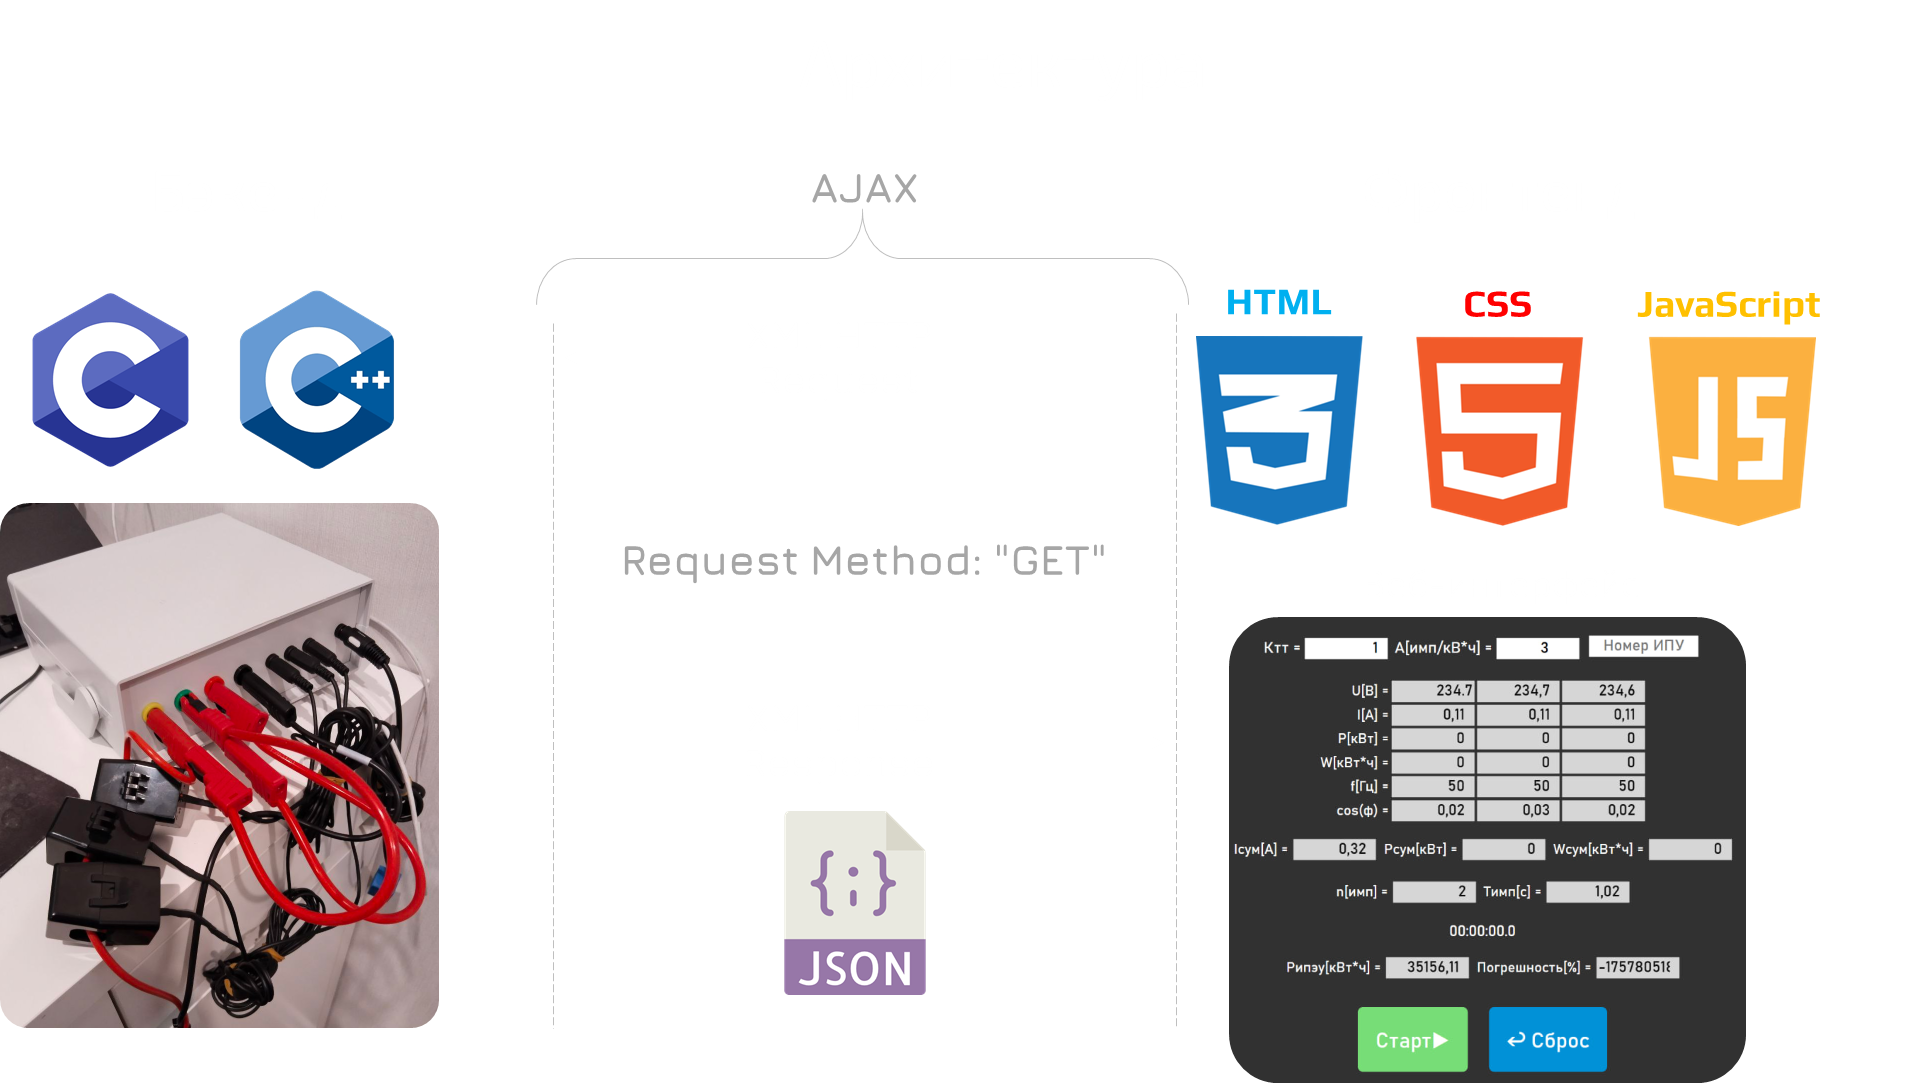
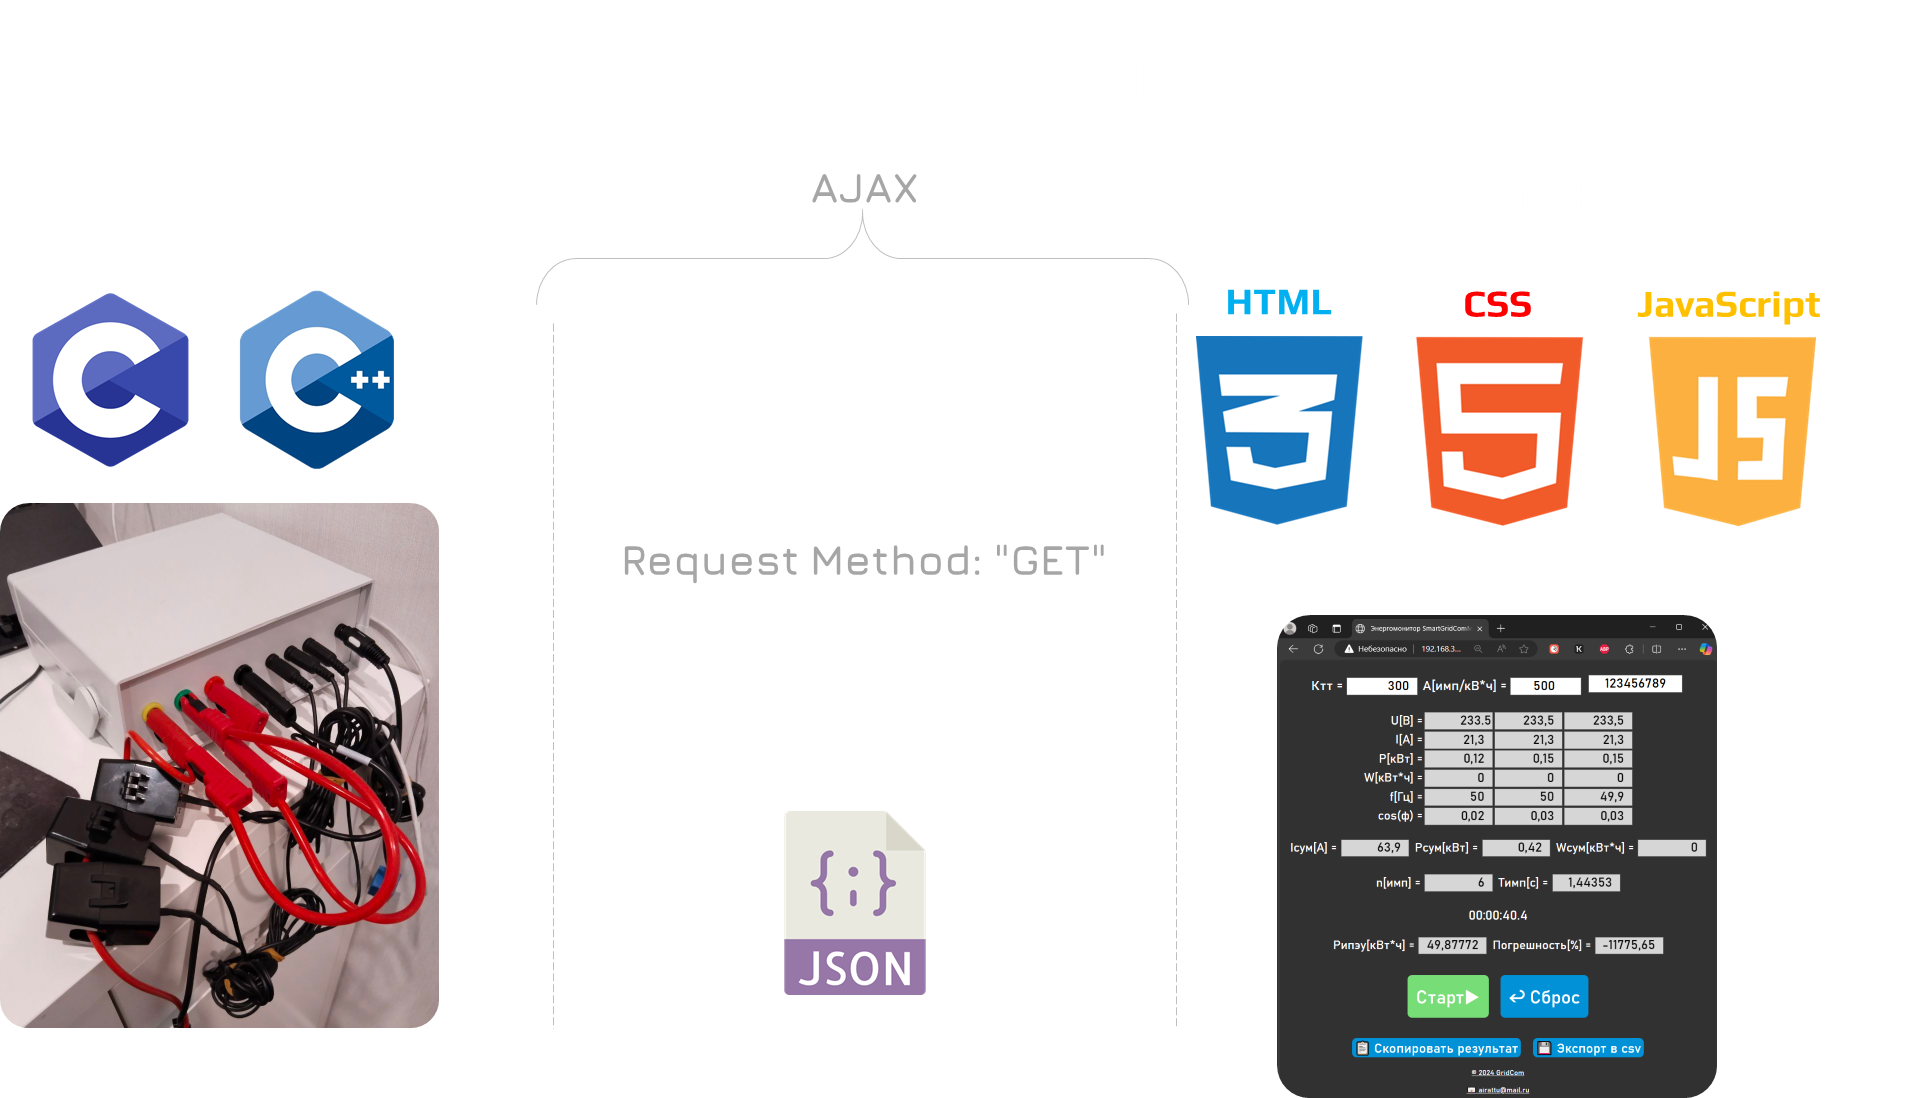
add export to csv

diff --git a/front/script.js b/front/script.js
@@ -1,4 +1,4 @@
-let сurrentTransformerTransformationRatioCheck = document.getElementById('CurrentTransformerTransformationRatioCheck');
+let currentTransformerTransformationRatioCheck = document.getElementById('CurrentTransformerTransformationRatioCheck');
 
 let constMeterImpsNumCheck = document.getElementById('ConstMeterImpsNumCheck');
 
@@ -62,13 +62,45 @@ function CheckConstMeterImpsNumInputs() {
 }
 
 function CheckCurrentTransformerTransformationRatioInputs() {
-    if (сurrentTransformerTransformationRatioCheck.value == ''
-        || сurrentTransformerTransformationRatioCheck.value <= 0) {
+    if (currentTransformerTransformationRatioCheck.value == ''
+        || currentTransformerTransformationRatioCheck.value <= 0) {
             alert('Ктт должен быть больше 0');
             return false;
         }
     return true;
 };
+
+let allValuesToCSV = [[
+    'time',
+    'timer',
+'currentTransformerTransformationRatio',
+'constMeterImpsNum',
+'meterSerialNumMeter',
+'pzemVoltageMeter1',
+'pzemVoltageMeter2',
+'pzemVoltageMeter3',
+'pzemCurrentMeter1',
+'pzemCurrentMeter2',
+'pzemCurrentMeter3',
+'pzemPowerMeter1',
+'pzemPowerMeter2',
+'pzemPowerMeter3',
+'pzemEnergyMeter1',
+'pzemEnergyMeter2',
+'pzemEnergyMeter3',
+'pzemFrequencyMeter1',
+'pzemFrequencyMeter2',
+'pzemFrequencyMeter3',
+'pzemPowerFactorMeter1',
+'pzemPowerFactorMeter2',
+'pzemPowerFactorMeter3',
+'pzemFullCurrent',
+'pzemFullPower',
+'pzemFullEnergyMeter',
+'kyImpsMeter',
+'impsPeriodMeter',
+'calcMeterPower',
+'calcMeterAccuracy']];
 
 function ViewAllESPdata(ESPdata) {
     pzemVoltageMeterCheck1.value = ESPdata.voltages[0];
@@ -96,6 +128,75 @@ function ViewAllESPdata(ESPdata) {
     impsPeriodMeterCheck.value = ESPdata.ResSMDValues.SMDimpPeriod;
     calcMeterPower.value = ESPdata.ResSMDValues.SMDpower;
     calcMeterAccuracy.value = ESPdata.ResSMDValues.SMDAccuraty;
+    pushAllESPdataToCSVarray();
+}
+
+function formatDate(date) {
+    return date.getFullYear() + '/' +
+      (date.getMonth() + 1) + '/' +
+      date.getDate() + ' ' +
+      date.getHours() + ':' +
+      date.getMinutes() + ':' +
+      date.getSeconds();
+   }
+
+const downloadCsvBtn = document.getElementById("downloadCsvButton");
+downloadCsvBtn.addEventListener("click", DownloadCsv);
+
+function DownloadCsv() {
+        const csvContent = allValuesToCSV.map(row => 
+            row.map(field => 
+                `"${field.toString().replace(/"/g, '""')}"`
+            ).join(";")
+        ).join("\n");
+    
+        const blob = new Blob([csvContent], { type: 'text/csv;charset=utf-8;' });
+        const url = URL.createObjectURL(blob);
+        const link = document.createElement('a');
+        link.href = url;
+        const date = new Date();
+        link.download = formatDate(date) + 'exportSmartGridComMeterData.csv';
+        link.style.display = 'none';
+    
+        document.body.appendChild(link);
+        link.click();
+        document.body.removeChild(link);
+};
+
+function pushAllESPdataToCSVarray() {
+    downloadCsvBtn.style["display"] = "";
+    var now = new Date();
+    allValuesToCSV.push([
+        formatDate(now),
+        timer.textContent,
+        currentTransformerTransformationRatioCheck.value,
+        constMeterImpsNumCheck.value,
+        meterSerialNumMeterCheck.value,
+        pzemVoltageMeterCheck1.value,
+        pzemVoltageMeterCheck2.value,
+        pzemVoltageMeterCheck3.value,
+        pzemCurrentMeterCheck1.value,
+        pzemCurrentMeterCheck2.value,
+        pzemCurrentMeterCheck3.value,
+        pzemPowerMeterCheck1.value,
+        pzemPowerMeterCheck2.value,
+        pzemPowerMeterCheck3.value,
+        pzemEnergyMeterCheck1.value,
+        pzemEnergyMeterCheck2.value,
+        pzemEnergyMeterCheck3.value,
+        pzemFrequencyMeterCheck1.value,
+        pzemFrequencyMeterCheck2.value,
+        pzemFrequencyMeterCheck3.value,
+        pzemPowerFactorMeterCheck1.value,
+        pzemPowerFactorMeterCheck2.value,
+        pzemPowerFactorMeterCheck3.value,
+        pzemFullCurrentCheck.value,
+        pzemFullPowerCheck.value,
+        pzemFullEnergyMeterCheck.value,
+        kyImpsMeterCheck.value,
+        impsPeriodMeterCheck.value,
+        calcMeterPower.value,
+        calcMeterAccuracy.value]);
 }
 
 constMeterImpsNumCheck.addEventListener("change", sendConstMeterImpsNumCheck);
@@ -117,13 +218,13 @@ function sendConstMeterImpsNumCheck() {
     }
 };
 
-сurrentTransformerTransformationRatioCheck.addEventListener("change", sendCurrentTransformerTransformationRatio);
+currentTransformerTransformationRatioCheck.addEventListener("change", sendCurrentTransformerTransformationRatio);
 
 function sendCurrentTransformerTransformationRatio() {
     if (CheckCurrentTransformerTransformationRatioInputs()) {
         var xhttp = new XMLHttpRequest();
         xhttp.open("GET",
-            "current_transformer_transformation_ratio?сurrentTransformerTransformationRatio="+сurrentTransformerTransformationRatioCheck.value,
+            "current_transformer_transformation_ratio?сurrentTransformerTransformationRatio="+currentTransformerTransformationRatioCheck.value,
             true);
         xhttp.responseType = "json";
         xhttp.send();
@@ -173,6 +274,7 @@ function startMeterCheck(e) {
             StartMeterCheckBtn.innerText = 'Стоп⛔';
             StartMeterCheckBtn.style["background-color"] = "red";
             writeBtn.style["display"] = "none";
+            
         }
     } else {
         e.preventDefault();

diff --git a/front/index.html b/front/index.html
@@ -91,6 +91,10 @@
         name = "copyResultButton"
         class = "button"
         style="display: none">📋 Скопировать результат</button>
+        <button id = "downloadCsvButton"
+        name = "downloadCsvButton"
+        class = "button"
+        style="display: none">💾 Экспорт в csv</button>
         <br>
         <div class="output" id="printBlock"></div>
         <div class="footer" id="CopyRights"><p><a href="https://gridcom-rt.ru/" class="footer">© 2024 GridCom</a></p>

diff --git a/srs/PZEM_nodemcu_three_phase/index.h b/srs/PZEM_nodemcu_three_phase/index.h
@@ -191,13 +191,14 @@ input[type="checkbox"] {
                 <p><button id="StartMeterCheck" type="submit" class="button" name="StartMeterCheck">Старт▶</button>
                     <button type="reset" class="button" id="resetMeterCheck">↩ Сброс</button></p>
         </form>        <button id = "copyResultButton"        name = "copyResultButton"        class = "button"
-        style="display: none">📋 Скопировать результат</button>
+        style="display: none">📋 Скопировать результат</button>        <button id = "downloadCsvButton"        name = "downloadCsvButton"        class = "button"
+        style="display: none">💾 Экспорт в csv</button>
         <br>
         <div class="output" id="printBlock"></div>
         <div class="footer" id="CopyRights"><p><a href="https://gridcom-rt.ru/" class="footer">© 2024 GridCom</a></p>
             <a href="mailto:airattu@mail.ru" class="footer">📧 airattu@mail.ru</a></div>
 <script>
-let сurrentTransformerTransformationRatioCheck = document.getElementById('CurrentTransformerTransformationRatioCheck');
+let currentTransformerTransformationRatioCheck = document.getElementById('CurrentTransformerTransformationRatioCheck');
 let constMeterImpsNumCheck = document.getElementById('ConstMeterImpsNumCheck');
 let meterSerialNumMeterCheck = document.getElementById('SMDSerialNumMeterCheck');
 let pzemVoltageMeterCheck1 = document.getElementById('PzemVoltageMeterCheck1');
@@ -241,13 +242,14 @@ function CheckConstMeterImpsNumInputs() {    if (constMeterImpsNumCheck.value ==
         }
     return true;
 }
-function CheckCurrentTransformerTransformationRatioInputs() {    if (сurrentTransformerTransformationRatioCheck.value == ''
-        || сurrentTransformerTransformationRatioCheck.value <= 0) {
+function CheckCurrentTransformerTransformationRatioInputs() {    if (currentTransformerTransformationRatioCheck.value == ''
+        || currentTransformerTransformationRatioCheck.value <= 0) {
             alert('Ктт должен быть больше 0');
             return false;
         }
     return true;
-};
+};let allValuesToCSV = [[    'time',    'timer','currentTransformerTransformationRatio','constMeterImpsNum','meterSerialNumMeter','pzemVoltageMeter1','pzemVoltageMeter2','pzemVoltageMeter3','pzemCurrentMeter1','pzemCurrentMeter2','pzemCurrentMeter3','pzemPowerMeter1','pzemPowerMeter2','pzemPowerMeter3','pzemEnergyMeter1','pzemEnergyMeter2','pzemEnergyMeter3','pzemFrequencyMeter1','pzemFrequencyMeter2','pzemFrequencyMeter3','pzemPowerFactorMeter1','pzemPowerFactorMeter2','pzemPowerFactorMeter3','pzemFullCurrent','pzemFullPower','pzemFullEnergyMeter','kyImpsMeter','impsPeriodMeter','calcMeterPower',
+'calcMeterAccuracy']];
 function ViewAllESPdata(ESPdata) {
     pzemVoltageMeterCheck1.value = ESPdata.voltages[0];
     pzemVoltageMeterCheck2.value = ESPdata.voltages[1];
@@ -274,6 +276,30 @@ function ViewAllESPdata(ESPdata) {
     impsPeriodMeterCheck.value = ESPdata.ResSMDValues.SMDimpPeriod;
     calcMeterPower.value = ESPdata.ResSMDValues.SMDpower;
     calcMeterAccuracy.value = ESPdata.ResSMDValues.SMDAccuraty;
+    pushAllESPdataToCSVarray();
+}
+function formatDate(date) {    return date.getFullYear() + '/' +      (date.getMonth() + 1) + '/' +      date.getDate() + ' ' +      date.getHours() + ':' +      date.getMinutes() + ':' +
+      date.getSeconds();
+   }
+const downloadCsvBtn = document.getElementById("downloadCsvButton");
+downloadCsvBtn.addEventListener("click", DownloadCsv);
+function DownloadCsv() {        const csvContent = allValuesToCSV.map(row =>             row.map(field =>                 `"${field.toString().replace(/"/g, '""')}"`            ).join(";")
+        ).join("\n");    
+        const blob = new Blob([csvContent], { type: 'text/csv;charset=utf-8;' });
+        const url = URL.createObjectURL(blob);
+        const link = document.createElement('a');
+        link.href = url;
+        const date = new Date();
+        link.download = formatDate(date) + 'exportSmartGridComMeterData.csv';
+        link.style.display = 'none';    
+        document.body.appendChild(link);
+        link.click();
+        document.body.removeChild(link);
+};
+function pushAllESPdataToCSVarray() {
+    downloadCsvBtn.style["display"] = "";
+    var now = new Date();    allValuesToCSV.push([        formatDate(now),        timer.textContent,        currentTransformerTransformationRatioCheck.value,        constMeterImpsNumCheck.value,        meterSerialNumMeterCheck.value,        pzemVoltageMeterCheck1.value,        pzemVoltageMeterCheck2.value,        pzemVoltageMeterCheck3.value,        pzemCurrentMeterCheck1.value,        pzemCurrentMeterCheck2.value,        pzemCurrentMeterCheck3.value,        pzemPowerMeterCheck1.value,        pzemPowerMeterCheck2.value,        pzemPowerMeterCheck3.value,        pzemEnergyMeterCheck1.value,        pzemEnergyMeterCheck2.value,        pzemEnergyMeterCheck3.value,        pzemFrequencyMeterCheck1.value,        pzemFrequencyMeterCheck2.value,        pzemFrequencyMeterCheck3.value,        pzemPowerFactorMeterCheck1.value,        pzemPowerFactorMeterCheck2.value,        pzemPowerFactorMeterCheck3.value,        pzemFullCurrentCheck.value,        pzemFullPowerCheck.value,        pzemFullEnergyMeterCheck.value,        kyImpsMeterCheck.value,        impsPeriodMeterCheck.value,        calcMeterPower.value,
+        calcMeterAccuracy.value]);
 }
 constMeterImpsNumCheck.addEventListener("change", sendConstMeterImpsNumCheck);
 function sendConstMeterImpsNumCheck() {
@@ -292,10 +318,10 @@ function sendConstMeterImpsNumCheck() {
         };
     }
 };
-сurrentTransformerTransformationRatioCheck.addEventListener("change", sendCurrentTransformerTransformationRatio);
+currentTransformerTransformationRatioCheck.addEventListener("change", sendCurrentTransformerTransformationRatio);
 function sendCurrentTransformerTransformationRatio() {
     if (CheckCurrentTransformerTransformationRatioInputs()) {
-        var xhttp = new XMLHttpRequest();        xhttp.open("GET",            "current_transformer_transformation_ratio?сurrentTransformerTransformationRatio="+сurrentTransformerTransformationRatioCheck.value,
+        var xhttp = new XMLHttpRequest();        xhttp.open("GET",            "current_transformer_transformation_ratio?сurrentTransformerTransformationRatio="+currentTransformerTransformationRatioCheck.value,
             true);
         xhttp.responseType = "json";
         xhttp.send();
@@ -340,7 +366,7 @@ function startMeterCheck(e) {
             timerInterval = setInterval(updateTime, 100);
             StartMeterCheckBtn.innerText = 'Стоп⛔';
             StartMeterCheckBtn.style["background-color"] = "red";
-            writeBtn.style["display"] = "none";
+            writeBtn.style["display"] = "none";            
         }
     } else {
         e.preventDefault();

diff --git a/README.md b/README.md
@@ -16,6 +16,10 @@
 2. https://github.com/esp8266/Arduino (в Arduino IDE: инструменты->плата->менеджер плат - "esp8266 by ESP8266")
 3. https://github.com/bblanchon/ArduinoJson  (в Arduino IDE: инструменты->управление библиотеками - "ArduinoJson") или https://arduinojson.org/?utm_source=meta&utm_medium=library.properties
 
+### Особенности:
+Если не подавать напряжение, то другие параметры измеряться тоже не будут (токовы особенности устройства PZEM)
+Результат можно экспортировать в csv
+
 ### Если вы работаете с [Arduino IDE](https://docs.arduino.cc/software/ide/), Вам необходимо [подключить](https://robotclass.ru/articles/node-mcu-arduino-ide-setup/) дополнительные ссылки для Менеджера плат для NodeMCU:
 http://arduino.esp8266.com/stable/package_esp8266com_index.json
 ![alt text](Resources/image2.png)
@@ -26,8 +30,8 @@ http://arduino.esp8266.com/stable/package_esp8266com_index.json
 ### В разобранном виде:
 ![alt text](Resources/image.png)
 
-### так выглядит веб интерфейс:
+### веб интерфейс:
 ![alt text](Resources/front.png)
 
-### при желании можно выводить в монитор порта:
+### можно выводить в монитор порта:
 ![alt text](Resources/image-1.png)
